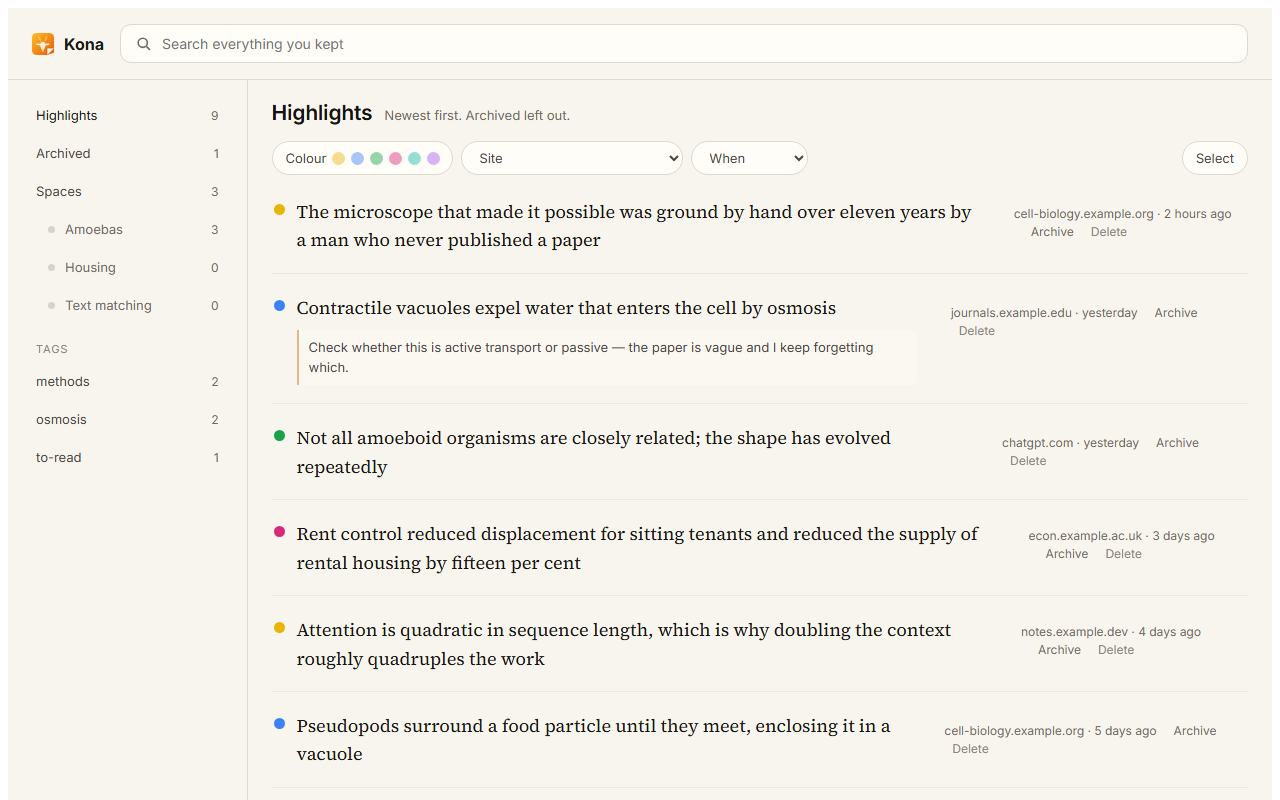
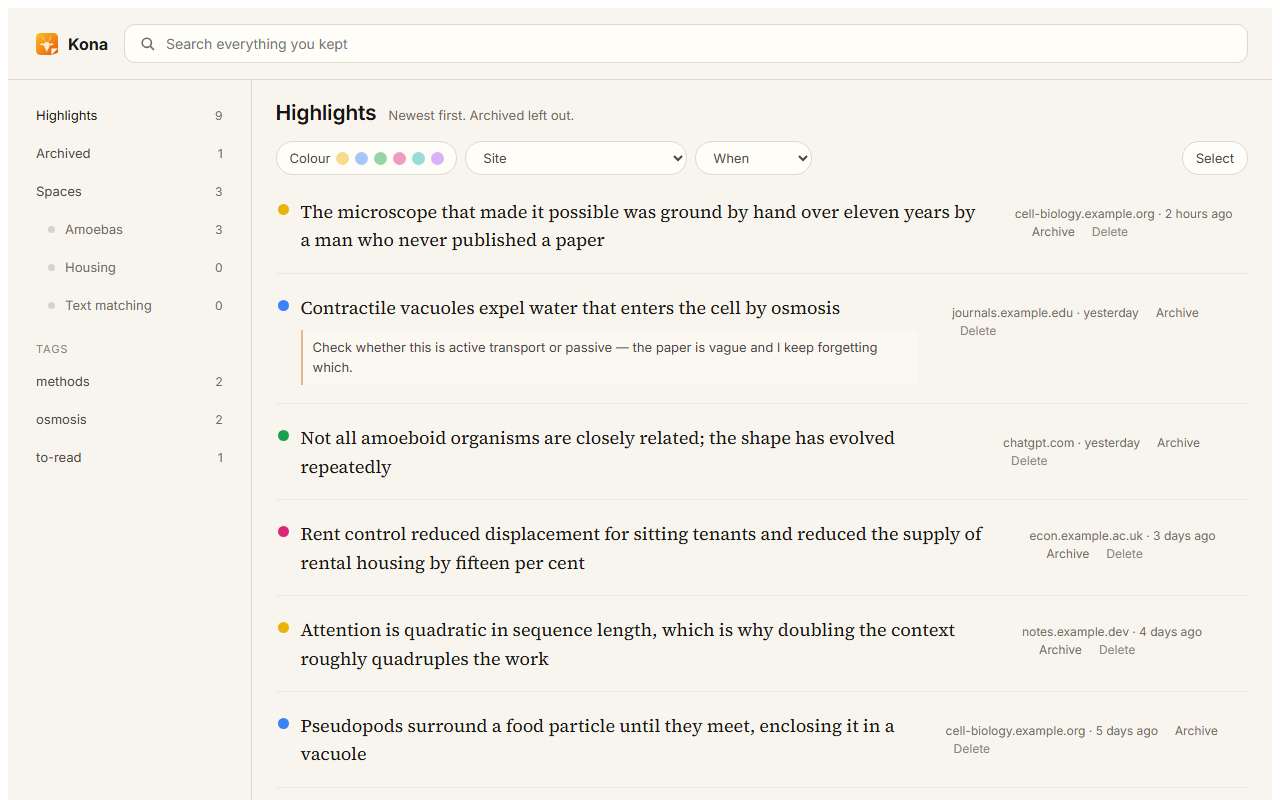
Give the left column one edge, and stop cutting words in half
Three things measuring the interface turned up.

The library's left column had three left edges: the mark at 32, the nav
text under it at 36, the account row at 34. Nobody could name that and
everybody sees it. All three at 36 now, written as the sum of the nav's
own insets so moving the nav moves the mark with it.

The first attempt fixed the desktop and broke the phone by the same four
pixels: the mark heads the nav column above the breakpoint and heads the
content below it, where there is no nav, and those are different edges.
It is in a min-width query now, which says only where there is a nav.

The popup kept two different times, 24px of air above one rule and 32px
above the other, because the second section was added later and guessed.

And the store screenshots showed Kona marking text badly. The harness
cuts the opening of a paragraph at 96 characters to make its highlights,
which landed inside n² and inside "splits", so the first pictures a
reviewer sees had highlights ending mid-word and cards reading "Sparse
attention spl". Last whole word now, which is what a real selection
looks like and what the product claims to do. Screenshots regenerated;
welcome and both tiles came out byte-identical, which is the sort of
thing worth knowing about a capture script.

diff --git a/app/src/library.css b/app/src/library.css
@@ -297,6 +297,23 @@
 }
 
 /* The nav folds behind the three bars on a phone (17). */
+/*
+ * The mark heads the nav column, so it lines up with the nav's text rather
+ * than with the header's own padding: four pixels to the left of the column
+ * it is supposed to head is the kind of thing nobody can name and everybody
+ * sees.
+ *
+ * Only where there is a nav to head. Below the breakpoint the nav is behind
+ * the bars and the mark heads the content instead, which is already where the
+ * header's own padding puts it. Written as the sum it is, so moving the nav's
+ * inset moves this with it.
+ */
+@media (min-width: 840px) {
+  .lib-top {
+    padding-left: calc(var(--kona-space-16) + var(--kona-space-12));
+  }
+}
+
 @media (max-width: 839px) {
   .lib-bars {
     display: flex;
@@ -1011,7 +1028,10 @@
   width: 100%;
   min-height: 48px;
   margin-top: var(--kona-space-2);
-  padding: var(--kona-space-8) var(--kona-space-10);
+  /* The same inset as the nav items above it, which it was two pixels short
+     of, enough to stagger the left edge of a column nobody would be able to
+     say was wrong but everybody would see. */
+  padding: var(--kona-space-8) var(--kona-space-12);
   /* It never said any of these, so it wore the browser's own button: the
      default grey, the default border and the default font, in the one row
      that is supposed to be the quietest thing in the nav. Light paper hid

diff --git a/src/entrypoints/popup/popup.css b/src/entrypoints/popup/popup.css
@@ -104,8 +104,11 @@ body {
  * that this one is also about this site.
  */
 .pop-pause {
-  margin-top: var(--kona-space-12);
-  padding-top: var(--kona-space-12);
+  /* The same rhythm as the section below it. They are two ruled sections in a
+     320px window and they were keeping different time, 24px of air above one
+     rule and 32px above the other. */
+  margin-top: var(--kona-space-16);
+  padding-top: var(--kona-space-16);
   border-top: 1px solid var(--kona-paper-line);
 }
 

diff --git a/BUILD-LOG.md b/BUILD-LOG.md
@@ -1262,6 +1262,37 @@ must never degrade does not.
 
 ---
 
+## Three things you could see
+
+Asked to look at the interface rather than at a decision, so this is what
+measuring it turned up.
+
+**The left column had three left edges.** The mark at the top of the library
+sat at 32, the nav text under it at 36, the account row at the foot at 34.
+Nobody could have named it and everybody would have seen it: a column whose
+items do not agree about where they start reads as slightly broken without
+ever looking wrong. All three are at 36 now, written as the sum of the nav's
+own insets so that moving the nav moves the mark with it.
+
+The first attempt at that fixed the desktop and broke the phone. The mark
+heads the nav column above the breakpoint and heads the content below it,
+where there is no nav, and those are two different edges. It is in a
+`min-width` query now, which is the honest way to say *only where there is a
+nav to head*.
+
+**The popup kept two different times.** Two ruled sections in a 320px window,
+with 24px of air above one rule and 32px above the other, because the second
+was added later and guessed.
+
+**And the store screenshots showed Kona marking text badly.** The harness
+selects the opening of a paragraph to make its highlights, and it cut at 96
+characters, which landed inside `n²` and inside *splits*. So the pictures a
+reviewer sees first had highlights ending mid-word and panel cards reading
+*Sparse attention spl*. It cuts at the last whole word now, which is both
+what a person's selection looks like and what the product claims to do.
+
+---
+
 ## Where it stands
 
 | | |
